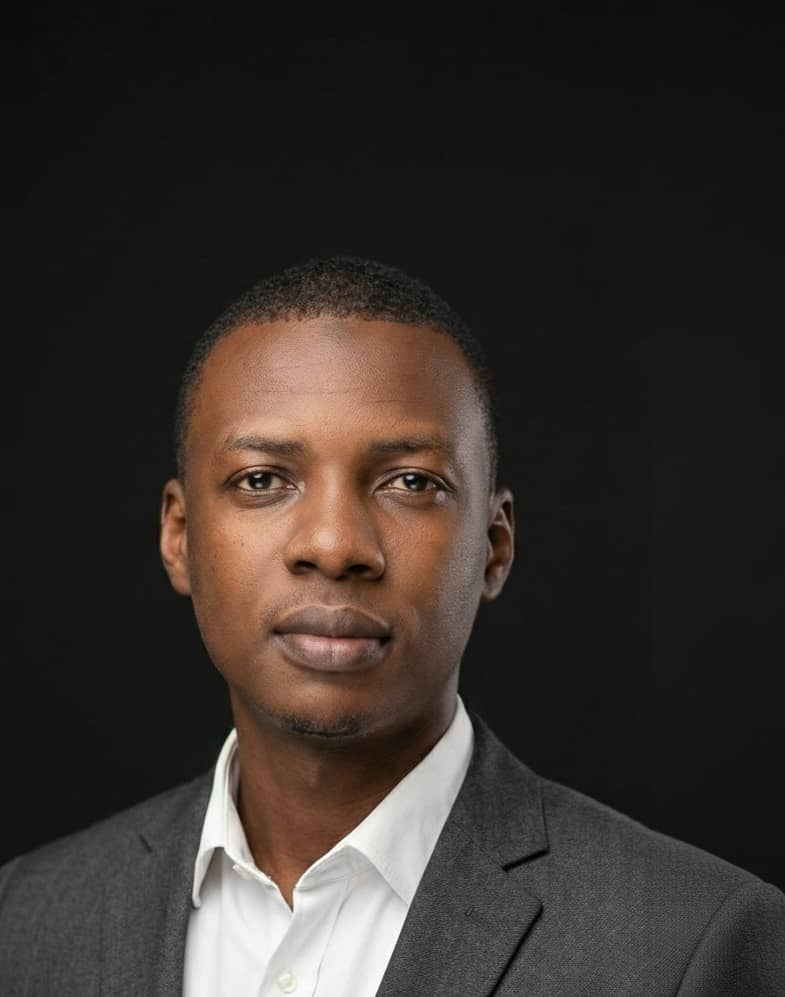
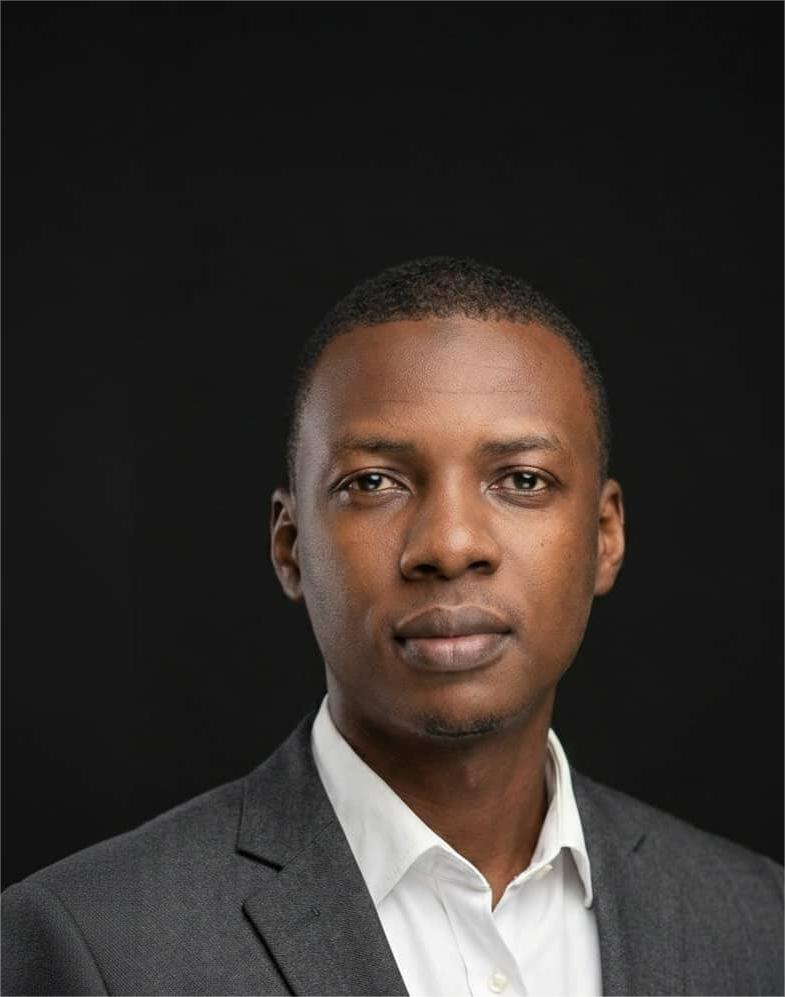
picture

diff --git a/components/Sections/Team.tsx b/components/Sections/Team.tsx
@@ -2,7 +2,7 @@ import React from 'react';
 import { motion } from 'framer-motion';
 import { TeamMember } from '../../types';
 import Ahmad from '../../images/ahmad.jpeg';
-import Zubair from '../../images/zubair.jpeg';
+import Zubair from '../../images/ahmad2.jpeg';
 
 const team: TeamMember[] = [
   {
@@ -45,7 +45,7 @@ export const Team: React.FC = () => {
               className="text-center"
             >
               <div className="w-40 h-40 mx-auto mb-4 rounded-full overflow-hidden border-2 border-slate-100">
-                <img src={member.imageUrl} alt={member.name} className="w-full h-full object-cover" />
+                <img src={member.imageUrl} alt={member.name} className="w-full h-full object-cover object-center" />
               </div>
               <h4 className="text-lg font-bold text-slate-900">{member.name}</h4>
               <span className="text-brand-cyan text-sm font-bold uppercase tracking-wider block mb-2">{member.role}</span>
